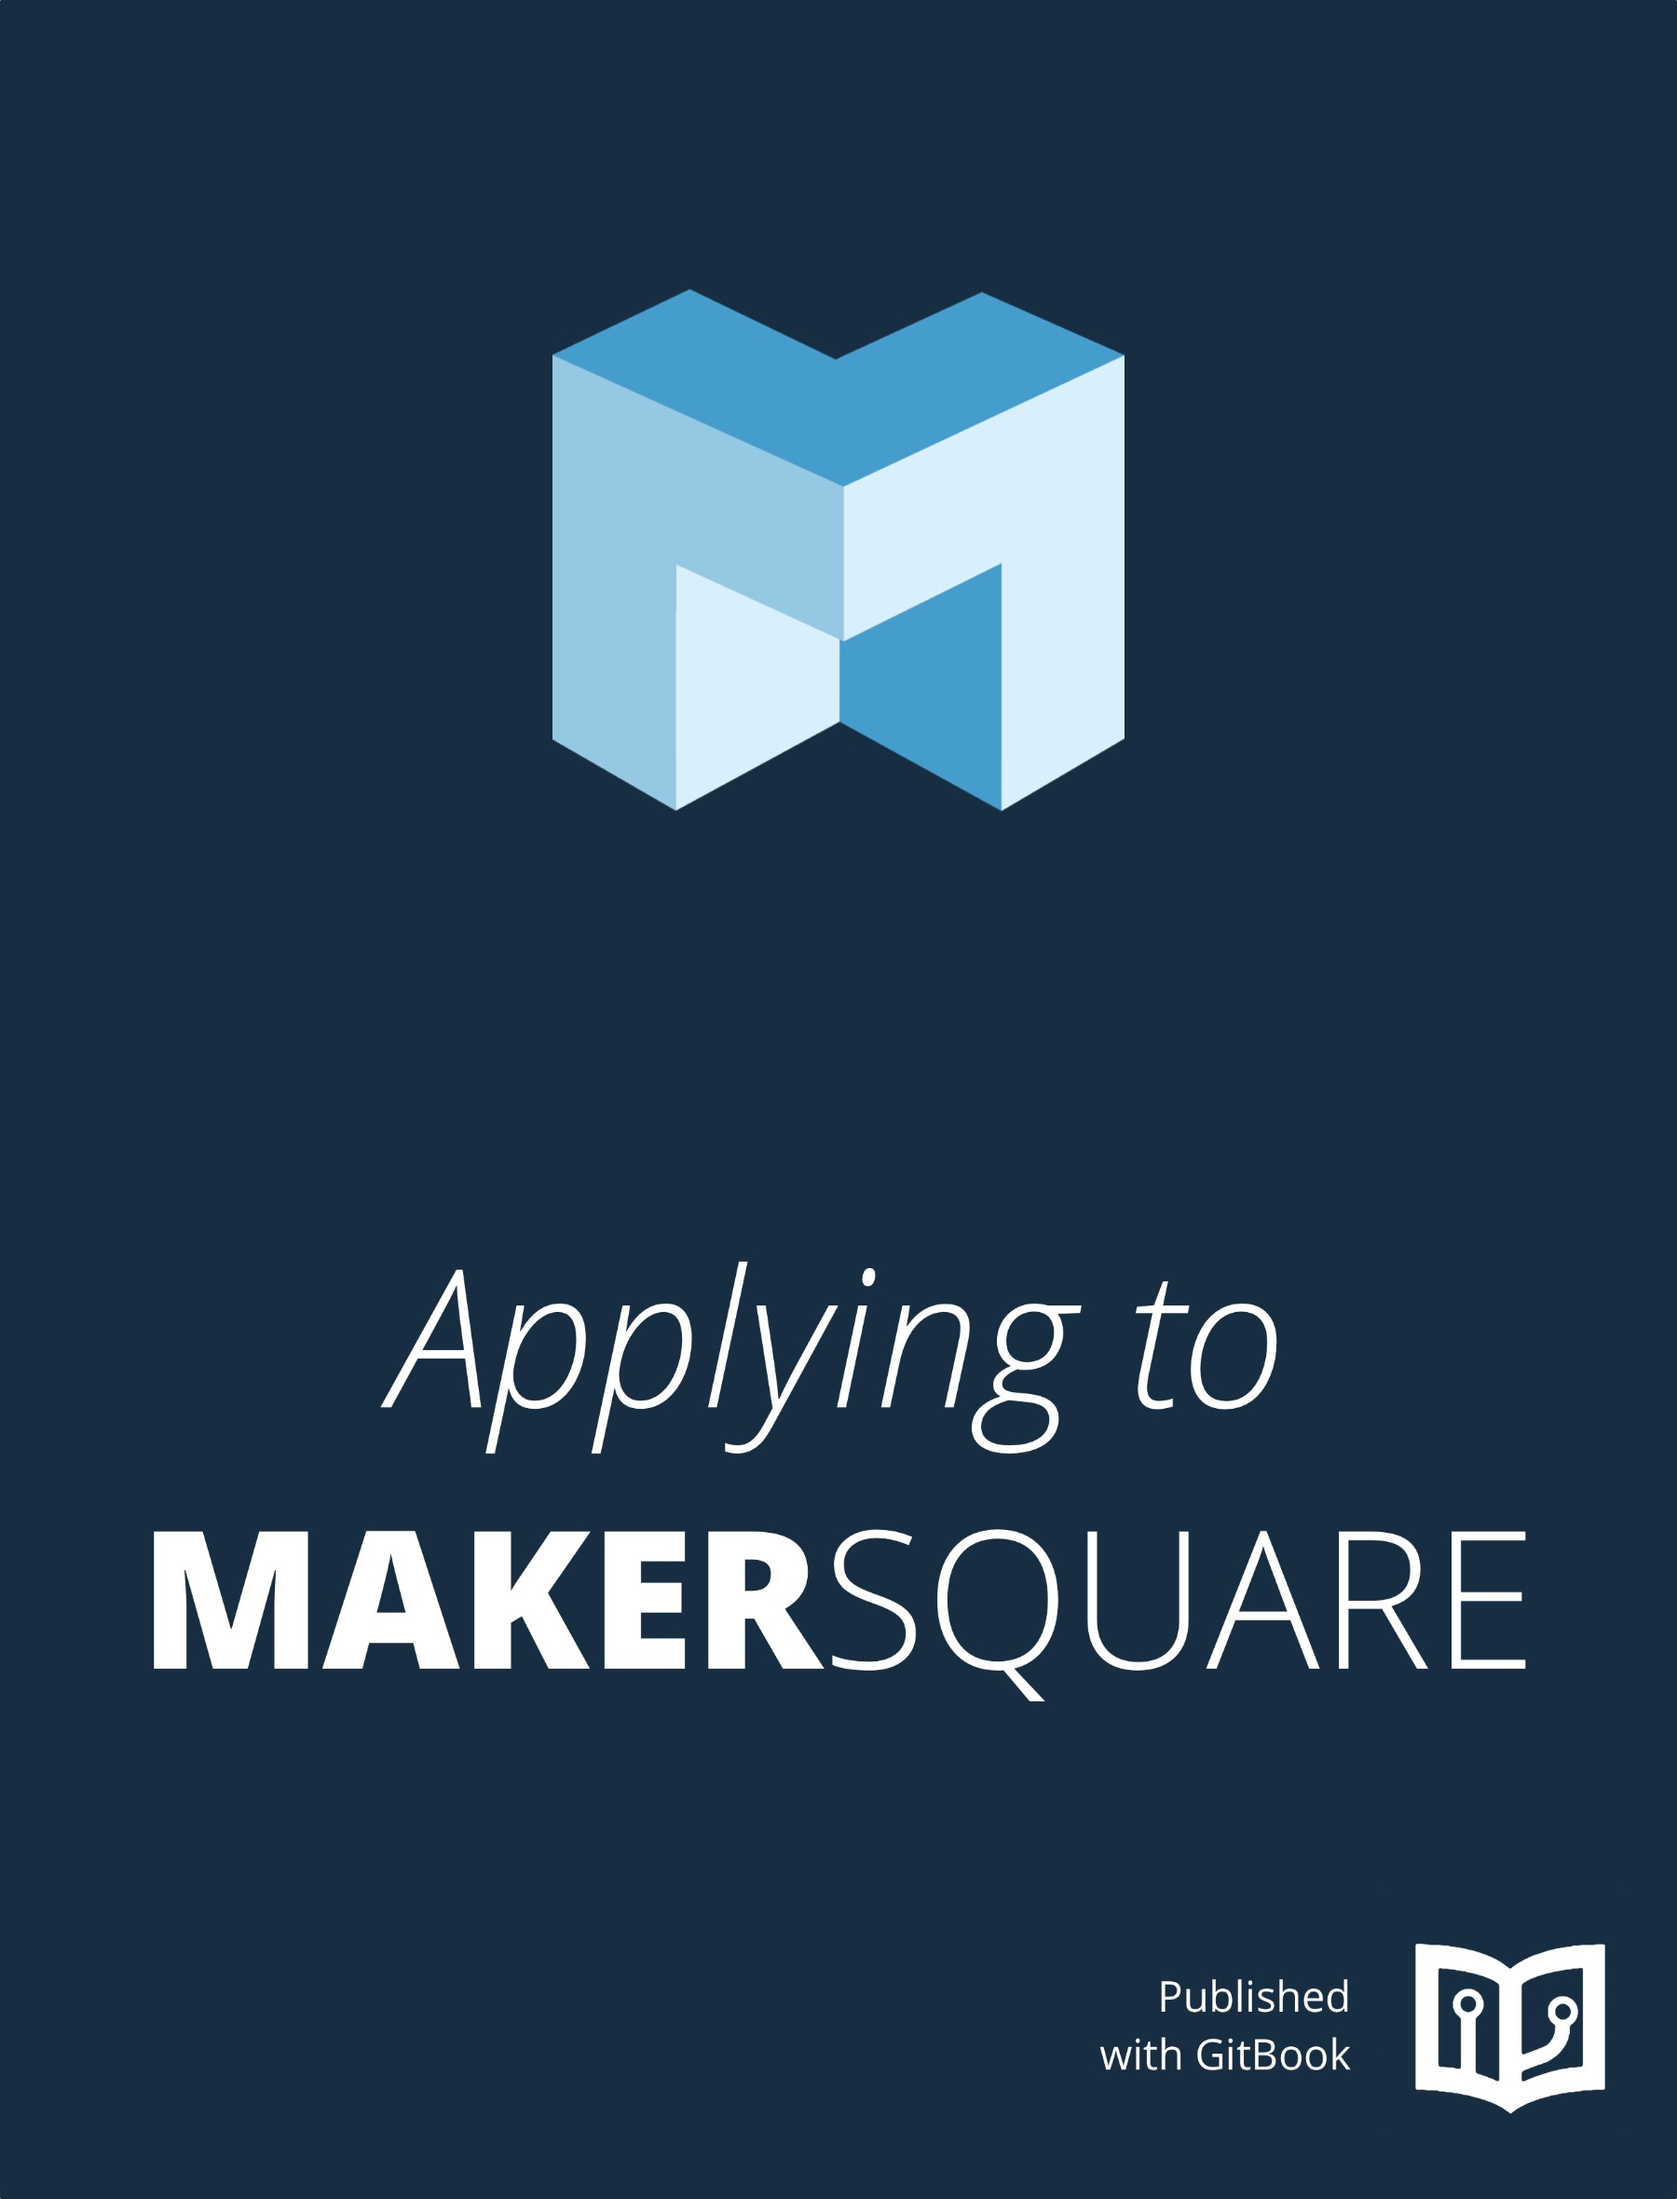
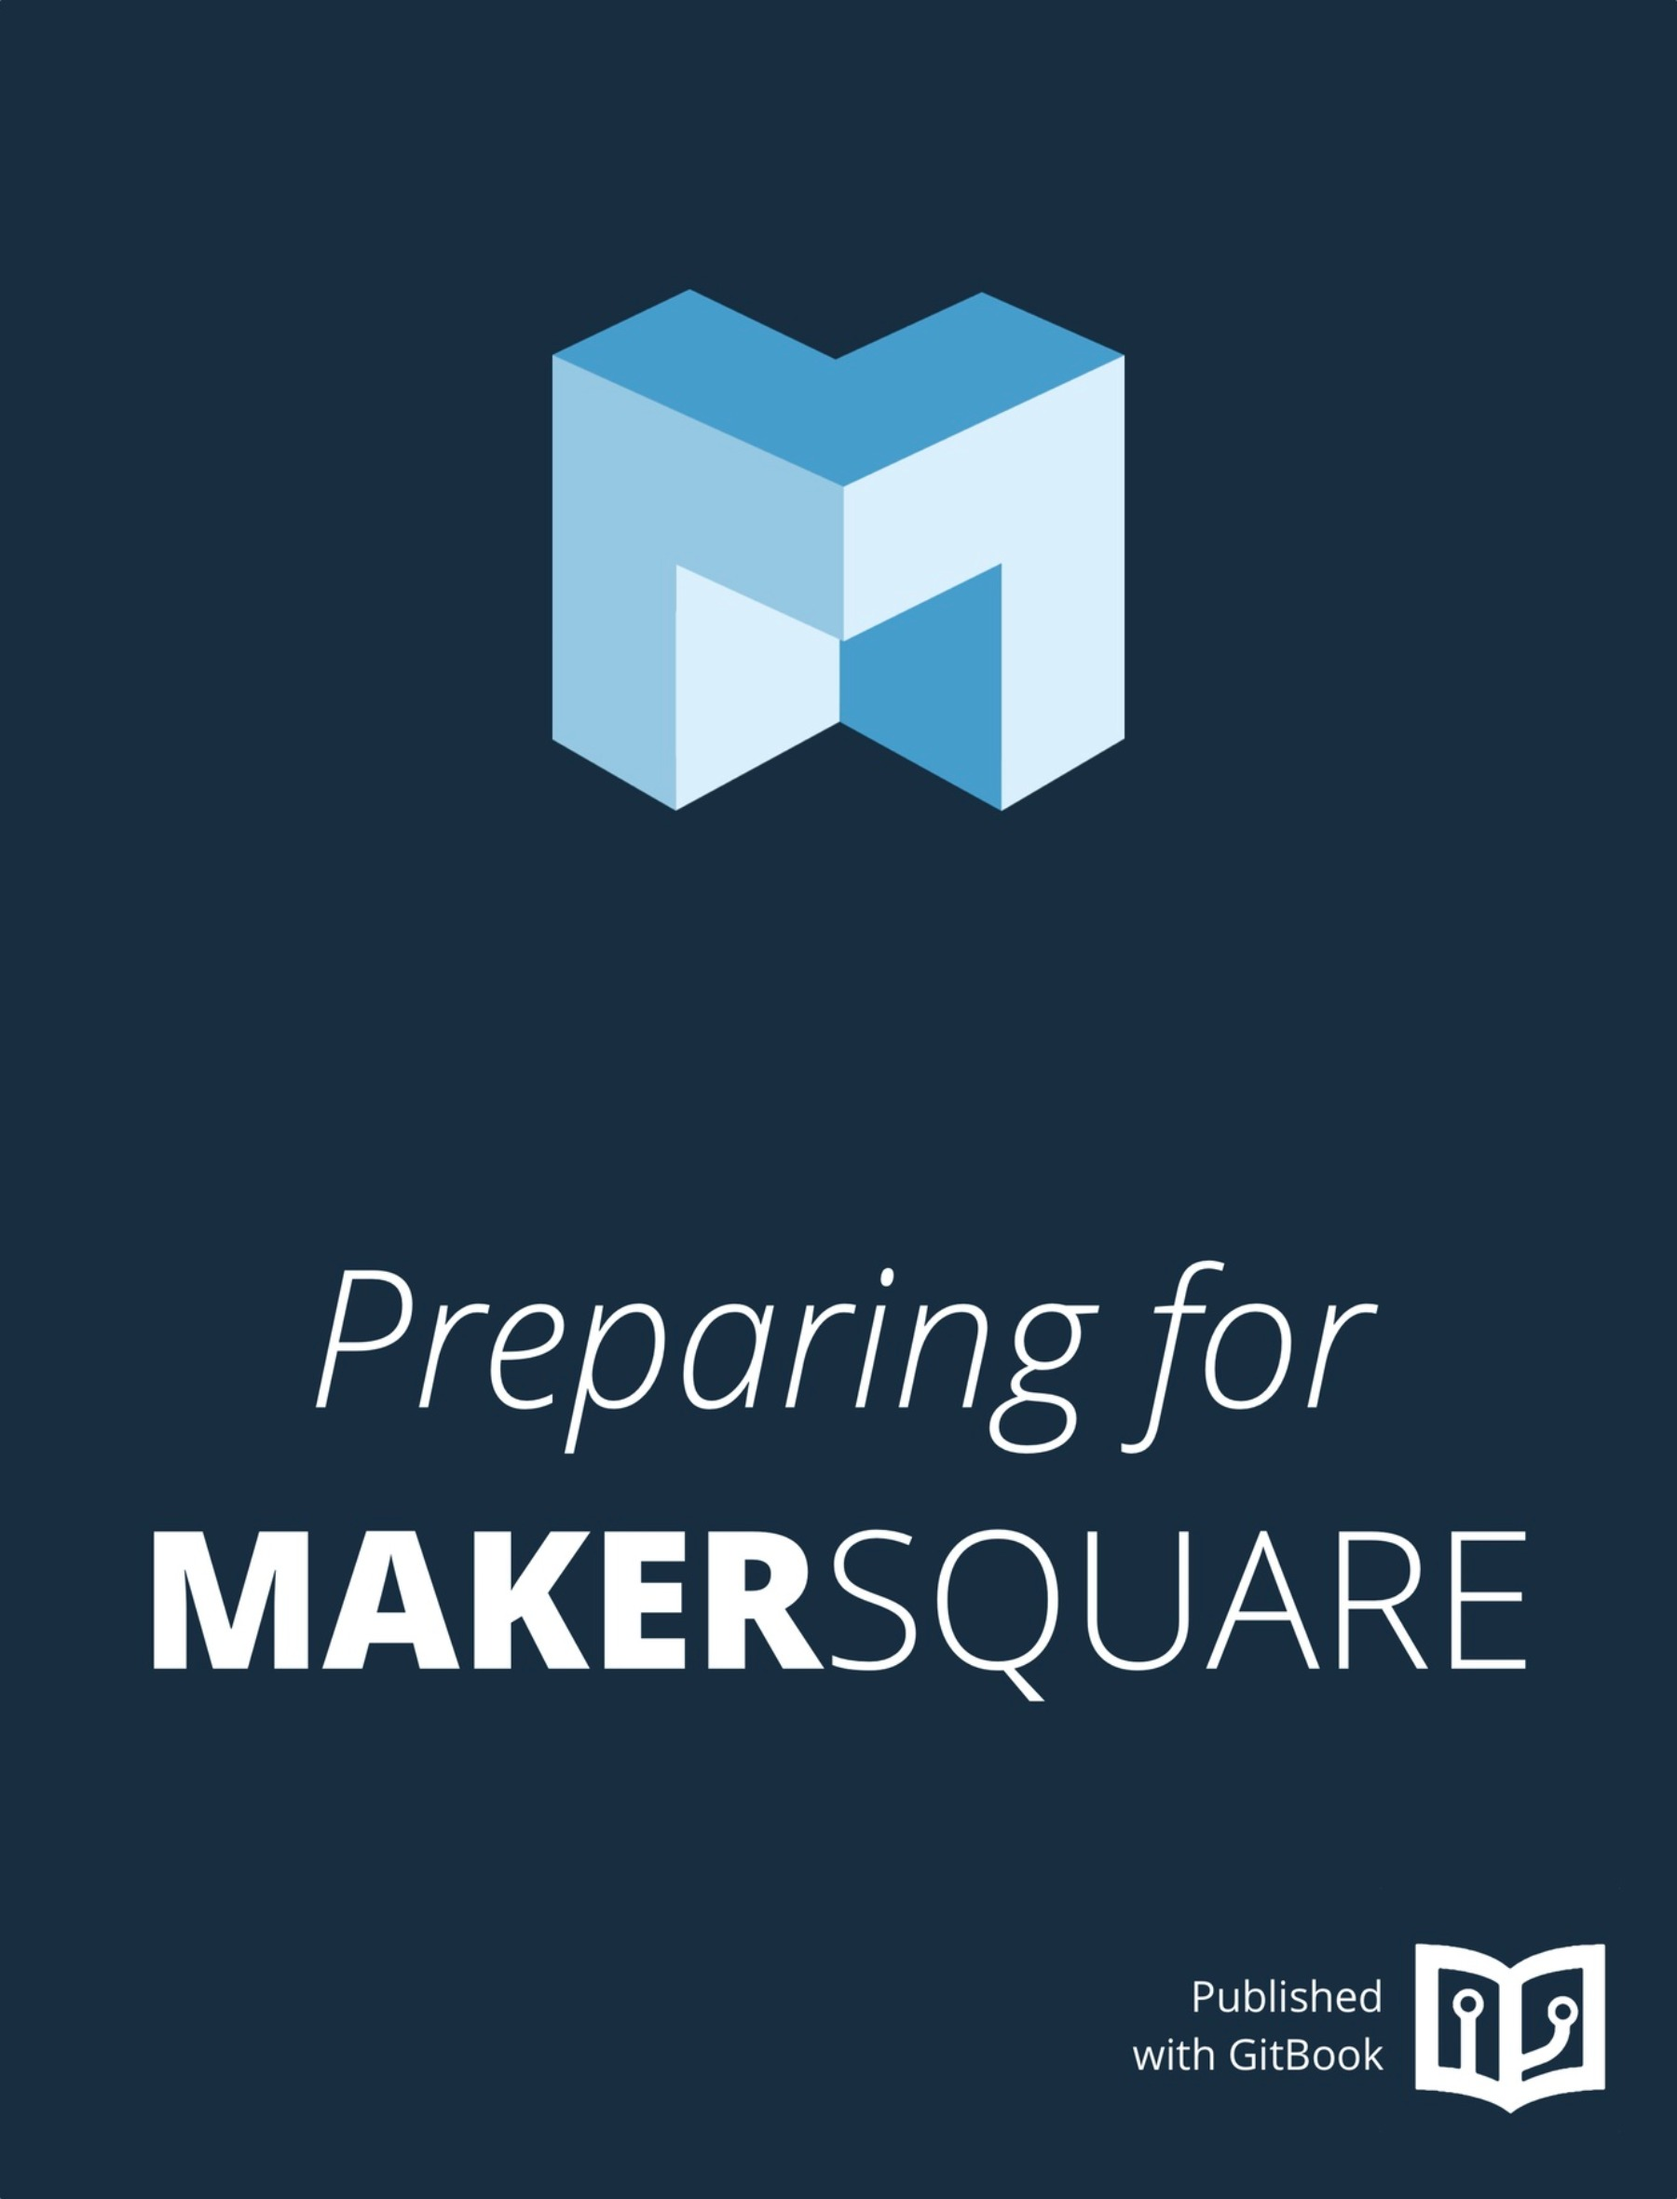
change pairing session to technical interview and change cover

Changed region(s): [[0.1867, 0.5568, 0.8089, 0.6805], [0.6533, 0.897, 0.84, 0.9589]]

diff --git a/makersquares_application_process/README.md b/makersquares_application_process/README.md
@@ -5,53 +5,5 @@ There are 5 components to the application process at MakerSquare. The entire pro
 1. Online Application
 2. First Interview
 3. Written Application
-4. Coding Challenge
-5. Pairing Session
-
-## 1. Online Application
-
-Time: 2-10 minutes
-
-The online application is a basic form from which the admissions team can learn about your background. You can find it here: http://mks.io/immersive-application
-
-## 2. First Interview
-
-Time: 30-45 minutes, via Skype or In-Person
-
-##### What's it like?
-
-It's a very casual conversation where you get a chance to ask anything you want about MakerSquare, and we get a chance to really understand why you want to become a software developer. It's usually 30-45 minutes long.
-
-##### What do I need to prepare?
-
-Prepare questions for the admissions team. We're happy to talk about financing, curriculum, instructors, career services, alumni, hiring partners, and anything in-between. We're always open and honest with our advice, recommendations, and feedback.
-
-##### Who will interview me?
-
-Either someone from the admissions team, Amanda and Emily, or one of the founders, Harsh, Shaan, Ravi, or Shehzan.
-
-## 3. Written Application
-
-You'll be given a link to the written application after your first interview. Here are the questions, in case you want to prepare them beforehand.
-
-1. What excites you about a career in web development?
-2. What are you passionate about?
-3. Tell us why you'd be an ideal MakerSquare student.
-4. Tell us about a technology or product that you love.  What do you think it takes to make something like that work?
-
-## 4. Coding Challenge
-
-Time: Variable based on your programming experience.
-
-You can find the Coding Challange towards the end of this GitBook (Chapter 3). You may get a head start on the challenge right now, but the only requirement is that it is completed by the date of your Pairing Session. If it is not completed, do not fret, you will pair program with the instructor and complete it together.
-
-##### What if I can't complete the challenge before my "Pairing Session"?
-
-No worries. Students who do not complete the coding challenge before the Pairing Session have been admitted to MakerSquare. We are more interested in how you think and approach problems, which can be done while solving the coding challenge together with your interviewer.
-
-## 5. Pairing Session
-
-Time: 20 - 45 minutes
-
-You will pair program with an instructor during this time. You will be asked to go over your solution to the coding challenge, or as much of it as you have completed.
-
+4. Take Home Coding Challenge
+5. Technical Interview

diff --git a/SUMMARY.md b/SUMMARY.md
@@ -1,6 +1,11 @@
 # Summary
 
 * [Application Process](makersquares_application_process/README.md)
+   * [Online Application](makersquares_application_process/online_application.md)
+   * [First Interview](makersquares_application_process/first_interview.md)
+   * [Written Application](makersquares_application_process/written_application.md)
+   * [Take Home Coding Challenge](makersquares_application_process/coding_challenge.md)
+   * [Technical Interview](makersquares_application_process/pairing_session.md)
 * [Coding Challenge Prep](pairing_session_prep/README.md)
    * [How does a website work?](pairing_session_prep/how_the_web_works.md)
        * [Data](pairing_session_prep/data.md)
@@ -25,6 +30,5 @@
    * [Ruby Classes](pairing_session_prep/ruby_classes.md)
        * [Let's Go For a Ride](pairing_session_prep/lets_go_for_a_ride.md)
    * [Cookbook App](pairing_session_prep/cookbook_app.md)
-   * [Power Rangers App](pairing_session_prep/power_rangers_app.md)
 * [Coding Challenge](coding_challenge/README.md)
 

diff --git a/makersquares_application_process/coding_challenge.md b/makersquares_application_process/coding_challenge.md
@@ -1,0 +1,9 @@
+## 4. Take Home Coding Challenge
+
+Time: Variable based on your programming experience.
+
+You can find the Coding Challange towards the end of this GitBook (Chapter 3). You may get a head start on the challenge right now, but the only requirement is that it is completed by the date of your Pairing Session. If it is not completed, do not fret, you will pair program with the instructor and complete it together.
+
+##### What if I can't complete the challenge before my "Technical Interview"?
+
+No worries. Students who do not complete the coding challenge before the Technical Interview have been admitted to MakerSquare. We are more interested in how you think and approach problems, which can be done while solving the coding challenge together with your interviewer.

diff --git a/makersquares_application_process/first_interview.md b/makersquares_application_process/first_interview.md
@@ -1,0 +1,15 @@
+## 2. First Interview
+
+Time: 30-45 minutes, via Skype or In-Person
+
+##### What's it like?
+
+It's a very casual conversation where you get a chance to ask anything you want about MakerSquare, and we get a chance to really understand why you want to become a software developer. It's usually 30-45 minutes long.
+
+##### What do I need to prepare?
+
+Prepare questions for the admissions team. We're happy to talk about financing, curriculum, instructors, career services, alumni, hiring partners, and anything in-between. We're always open and honest with our advice, recommendations, and feedback.
+
+##### Who will interview me?
+
+Either someone from the admissions team, Amanda and Emily, or one of the founders, Harsh, Shaan, Ravi, or Shehzan.

diff --git a/makersquares_application_process/written_application.md b/makersquares_application_process/written_application.md
@@ -1,0 +1,8 @@
+## 3. Written Application
+
+You'll be given a link to the written application after your first interview. Here are the questions, in case you want to prepare them beforehand.
+
+1. What excites you about a career in web development?
+2. What are you passionate about?
+3. Tell us why you'd be an ideal MakerSquare student.
+4. Tell us about a technology or product that you love.  What do you think it takes to make something like that work?

diff --git a/makersquares_application_process/pairing_session.md b/makersquares_application_process/pairing_session.md
@@ -1,0 +1,5 @@
+## 5. Technical Interview
+
+Time: 20 - 45 minutes
+
+You will pair program with an instructor during this time. You will be asked to go over your solution to the coding challenge, or as much of it as you have completed.

diff --git a/makersquares_application_process/online_application.md b/makersquares_application_process/online_application.md
@@ -1,0 +1,5 @@
+## 1. Online Application
+
+Time: 2-10 minutes
+
+The online application is a basic form from which the admissions team can learn about your background. You can find it here: http://mks.io/immersive-application
